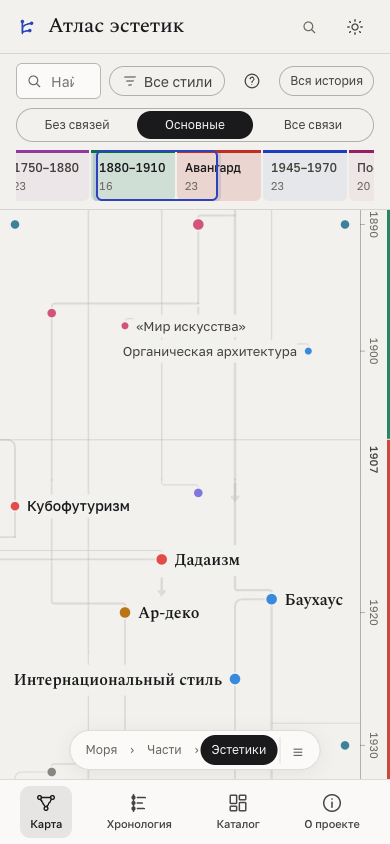
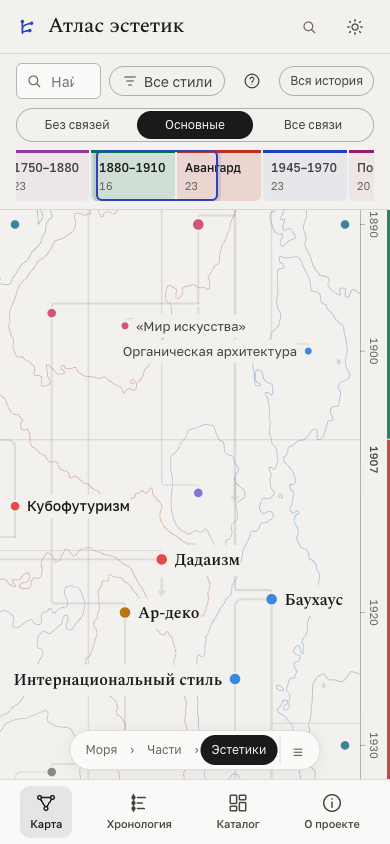
Keep orientation coasts and clarify sea relationship routes

diff --git a/js/views/map.js b/js/views/map.js
@@ -14,11 +14,12 @@ import { replaceParams, pushParams } from '../router.js?v=map4';
 import { pushStep, toParam, parseTrail } from '../trail.js?v=map4';
 import { stepTarget } from '../graphnav.js?v=chain-author-map4';
 import { createGutterLens } from '../lens.js?v=map4';
-import { initNebulae, drawNebulae, drawNebulaNames, disposeNebulae, setNebulaDirtyHandler, nebulaRegion, nebulaRegionAt } from '../nebulae.js?v=semantic-zoom-1';
+import { initNebulae, drawNebulae, drawNebulaNames, disposeNebulae, setNebulaDirtyHandler, nebulaRegion, nebulaRegionAt, nebulaShore } from '../nebulae.js?v=semantic-zoom-2';
 import { buildIndex, search } from '../search.js?v=author-pilot';
 import { fitLabelText } from '../map-labels.js?v=focus-fit-1';
 import { LINK_MODES, readLinkSettings, historicalLinkVisible } from '../map-links.js?v=link-modes-1';
-import { mapDetail, aggregateMapLinks } from '../map-detail.js?v=semantic-zoom-1';
+import { mapDetail, aggregateMapLinks } from '../map-detail.js?v=semantic-zoom-2';
+import { summaryCurve } from '../map-summary.js?v=semantic-zoom-2';
 
 const NS = 'http://www.w3.org/2000/svg';
 const AXIS_H = 30;      // строка делений шкалы внутри SVG
@@ -115,7 +116,7 @@ export default {
             <div class="lg-layers" role="group" aria-label="Слои карты">
               <label class="map-switch"><input type="checkbox" data-layer="verified"><span class="sw" aria-hidden="true"></span>Только подтверждённые связи</label>
             </div>
-            <p class="lg-note">На дальнем плане читаются моря: отдельные точки и ветви скрыты, пунктир объединяет связи карточек из разных морей. Нажмите на него, чтобы увидеть конкретные связи, типы и источники. При приближении появляются части, затем эстетики; береговые контуры уходят до крупного плана. Нажмите на море или его название, чтобы приблизить область. В списке доступны все моря и карточки вне них. Соседство и расстояния не означают географическую или культурную близость; состав групп не доказывает происхождение. «Основные» показывает ветви по первым указанным предкам, «Все связи» добавляет остальные связи, контекст и визуальные сопоставления; на дальнем плане показывается только несколько сводных линий. «Без связей» отключает также сводки и маршрут. Авторские карточки доступны на тех же уровнях, что и остальные. Большинство исторических связей пока остаются редакционными гипотезами. Фильтр «Только подтверждённые» независим от режима линий. Время идёт слева направо, на узком экране — сверху вниз; текст остаётся горизонтальным. Шкала времени неравномерная: каждой эпохе отведено место по числу стилей. Перетаскивание двигает карту; Ctrl/⌘ с колёсиком или щипок меняет масштаб.</p>
+            <p class="lg-note">На дальнем плане читаются моря: отдельные точки и ветви скрыты, пунктир объединяет связи карточек из разных морей. Нажмите на него, чтобы увидеть конкретные связи, типы и источники. При приближении появляются части, затем эстетики; тонкий внешний берег моря остаётся ориентиром даже на крупном плане. Нажмите на море или его название, чтобы приблизить область. В списке доступны все моря и карточки вне них. Соседство и расстояния не означают географическую или культурную близость; состав групп не доказывает происхождение. «Основные» показывает ветви по первым указанным предкам, «Все связи» добавляет остальные связи, контекст и визуальные сопоставления; на дальнем плане показывается только несколько сводных линий. Наведение выделяет связи моря, сохраняя основные маршруты на месте. «Без связей» отключает также сводки и маршрут. Авторские карточки доступны на тех же уровнях, что и остальные. Большинство исторических связей пока остаются редакционными гипотезами. Фильтр «Только подтверждённые» независим от режима линий. Время идёт слева направо, на узком экране — сверху вниз; текст остаётся горизонтальным. Шкала времени неравномерная: каждой эпохе отведено место по числу стилей. Перетаскивание двигает карту; Ctrl/⌘ с колёсиком или щипок меняет масштаб.</p>
           </div>
         </div>
         <div class="zoom-ctrls">
@@ -684,14 +685,22 @@ export default {
       const seaKeys = new Map(store.nebulae.map((s, i) => [s.id, `neb:${i}`]));
       const groups = aggregateMapLinks(records, (id) => seaKeys.get(nodeById.get(id).s.nebula), { mode: linkMode, verifiedOnly });
       const named = groups.filter((g) => regionNames.has(g.a) && regionNames.has(g.b));
-      aggregateLinks = (regionHover ? named.filter((g) => g.a === regionHover || g.b === regionHover) : named.filter((g) => verifiedOnly || g.records.length >= 2)).slice(0, linkMode === 'all' ? 10 : 6);
+      const baseline = named.filter((g) => verifiedOnly || g.records.length >= 2).slice(0, linkMode === 'all' ? 10 : 6);
+      const incident = (g) => g.a === regionHover || g.b === regionHover;
+      // Базовые маршруты сохраняются при наведении, чтобы карта не менялась под указателем.
+      aggregateLinks = [...baseline, ...(regionHover ? named.filter((g) => incident(g) && !baseline.includes(g)).slice(0, 4) : [])];
+      const boxes = [...summaryMask.querySelectorAll('rect[fill="black"]')].map((r) => [+r.getAttribute('x'), +r.getAttribute('y'), +r.getAttribute('x') + +r.getAttribute('width'), +r.getAttribute('y') + +r.getAttribute('height')]);
+      const shores = new Map();
+      const shore = (key) => { if (!shores.has(key)) shores.set(key, nebulaShore(key, nameCam().toScreen)); return shores.get(key); };
       for (const [i, g] of aggregateLinks.entries()) {
         const a = regionNames.get(g.a), b = regionNames.get(g.b);
-        const dx = b.x - a.x, dy = b.y - a.y, len = Math.hypot(dx, dy), bend = Math.min(70, len * 0.18);
-        if (len < 30) continue;
-        const cx = (a.x + b.x) / 2 - dy / len * bend, cy = (a.y + b.y) / 2 + dx / len * bend;
-        const d = `M${a.x.toFixed(1)},${a.y.toFixed(1)}Q${cx.toFixed(1)},${cy.toFixed(1)} ${b.x.toFixed(1)},${b.y.toFixed(1)}`;
-        el('path', { class: 'summary-line', d, 'stroke-width': Math.min(2.6, 0.65 + Math.log2(g.records.length + 1) * 0.35), opacity: detail.aggregates * (regionHover ? 0.62 : 0.24) }, G.summary);
+        const route = summaryCurve({ ...a, ports: shore(g.a) }, { ...b, ports: shore(g.b) }, boxes, [6, rot ? 6 : AXIS_H + 6, pw - (rot ? AXIS_H + 6 : 6), ph - 6]);
+        if (!route) continue;
+        const { d } = route;
+        const width = Math.min(2.6, 0.85 + Math.log2(g.records.length + 1) * 0.4);
+        el('path', { class: 'summary-case', d, 'stroke-width': width + 2.4, opacity: detail.aggregates * 0.85 }, G.summary);
+        el('path', { class: 'summary-line', d, 'stroke-width': width, opacity: detail.aggregates * (regionHover ? incident(g) ? 0.82 : 0.34 : 0.5) }, G.summary);
+        for (const p of route.ports) el('circle', { class: 'summary-port', cx: p.x, cy: p.y, r: 2.4, opacity: detail.aggregates * (regionHover && incident(g) ? 0.9 : 0.65) }, G.summary);
         const count = `${g.records.length} ${plural(g.records.length, 'связь карточек', 'связи карточек', 'связей карточек')}`;
         const h = el('path', { class: 'summary-hit', d, 'data-summary': i, 'data-key': `${g.a}/${g.b}`, role: 'button', tabindex: 0, 'aria-label': `${a.name} и ${b.name}: ${count}. Открыть список` }, G['summary-hits']);
         el('title', {}, h).textContent = `${count} · ${a.name} / ${b.name}`;

diff --git a/js/nebulae.js b/js/nebulae.js
@@ -228,11 +228,13 @@
   // изолинии поля региона → Path2D в координатах карты
   function toPath(reg, V, lev, smooth, eps, minLen, stat) {
     const loops = contours(V, reg.bw, reg.bh, lev), path = new Path2D();
+    if (lev === 0) reg.shore = [];
     let pts = 0;
     for (let lp of loops) {
       for (let i = 0; i < lp.length; i += 2) { lp[i] = OX + (reg.bx0 + lp[i]) * CS; lp[i + 1] = OY + (reg.by0 + lp[i + 1]) * CS; }
       if (perim(lp) < minLen) continue;
       lp = rdp(chaikin(lp, smooth), eps);
+      if (lev === 0) reg.shore.push(lp);
       path.moveTo(lp[0], lp[1]); for (let i = 2; i < lp.length; i += 2) path.lineTo(lp[i], lp[i + 1]); path.closePath();
       pts += lp.length / 2;
     }
@@ -521,7 +523,33 @@ function renderLayer(cam) {
   });
 }
 function draw(ctx, cam) {
-  if (!washFar || cam.detail?.regions === 0) return;
+  if (!washFar) return;
+  const mix = cam.detail?.partMix ?? sstep(0.62, 0.95, cam.kx), alpha = cam.detail?.regions ?? 1;
+  if (alpha > 0) drawWash(ctx, cam, mix, alpha);
+  else { clearTimeout(timer); lastCam = null; }
+  // Только внешний берег: без растянутой заливки и линий глубины. Прозрачность
+  // не падает с дальнейшим приближением, толщина остаётся экранной.
+  const coast = cam.detail?.coast ?? 0;
+  if (coast > 0) {
+    const { kx, ky, ox, oy, dpr } = cam;
+    const x0 = -ox / kx, x1 = (cam.w - ox) / kx, y0 = (cam.axis - oy) / ky, y1 = (cam.h - oy) / ky;
+    ctx.save();
+    ctx.setTransform(dpr, 0, 0, dpr, dpr * ox, dpr * oy);
+    ctx.globalAlpha = coast * (P.dark ? 0.42 : 0.36);
+    ctx.lineWidth = 0.85; ctx.lineJoin = 'round';
+    const key = `${kx.toFixed(4)}|${ky.toFixed(4)}`;
+    for (const r of nebRegs) {
+      const b = r.box; if (b[2] < x0 || b[0] > x1 || b[3] < y0 || b[1] > y1) continue;
+      if (r.coast?.key !== key) {
+        const path = new Path2D(); path.addPath(r.paths[0], new DOMMatrix([kx, 0, 0, ky, 0, 0]));
+        r.coast = { key, path };
+      }
+      ctx.strokeStyle = r.line; ctx.stroke(r.coast.path);
+    }
+    ctx.restore();
+  }
+}
+function drawWash(ctx, cam, mix, alpha) {
   lastCam = cam;
   // При отдалении/перемещении в кадр входят новые территории. Старый
   // битмап их не содержит: нельзя оставлять там пустоту до остановки камеры.
@@ -532,7 +560,6 @@ function draw(ctx, cam) {
   }
   if (!cache) return;
   const r = blitRect(cache, cam);
-  const mix = cam.detail?.partMix ?? sstep(0.62, 0.95, cam.kx), alpha = cam.detail?.regions ?? 1;
   ctx.save();
   cache.canvases.forEach((cv, i) => {
     ctx.globalAlpha = alpha * (i === 0 ? 1 - mix : mix);
@@ -732,6 +759,21 @@ export function nebulaRegion(key) {
   const [kind, id] = key.split(':');
   const r = (kind === 'neb' ? nebRegs : partRegs).find((r) => r.id === Number(id));
   return r && { key, kind, name: r.name, members: r.members.slice(), box: r.box.slice() };
+}
+
+// Порты обзорных связей лежат на настоящем береге, не на рамке названия.
+export function nebulaShore(key, toScreen) {
+  const [kind, id] = key.split(':');
+  const r = (kind === 'neb' ? nebRegs : partRegs).find((r) => r.id === Number(id));
+  const out = [];
+  for (const loop of r?.shore ?? []) {
+    let prev = null;
+    for (let i = 0; i < loop.length; i += 2) {
+      const [x, y] = toScreen(loop[i], loop[i + 1]);
+      if (!prev || Math.hypot(x - prev.x, y - prev.y) >= 12) { prev = { x, y }; out.push(prev); }
+    }
+  }
+  return out;
 }
 
 // Попадание в область проверяется по маске, а не её широкому прямоугольнику.

diff --git a/js/map-summary.js b/js/map-summary.js
@@ -1,0 +1,53 @@
+// Обзорная дуга должна читаться между названиями, а не целиком исчезать под
+// масками. Подбираем береговые порты и изгиб в экранных координатах.
+export function summaryCurve(a, b, boxes, bounds) {
+  if (a.ports && b.ports) {
+    const blocked = (p) => boxes.some((r) => p.x >= r[0] - 3 && p.x <= r[2] + 3 && p.y >= r[1] - 3 && p.y <= r[3] + 3);
+    const ports = (r, other) => {
+      const sorted = r.ports.filter((p) => !blocked(p) && p.x >= bounds[0] && p.x <= bounds[2] && p.y >= bounds[1] && p.y <= bounds[3])
+        .sort((p, q) => (Math.hypot(p.x - other.x, p.y - other.y) + Math.hypot(p.x - r.x, p.y - r.y) * 0.6)
+          - (Math.hypot(q.x - other.x, q.y - other.y) + Math.hypot(q.x - r.x, q.y - r.y) * 0.6));
+      const chosen = [];
+      for (const p of sorted) { if (chosen.every((q) => Math.hypot(p.x - q.x, p.y - q.y) >= 20)) chosen.push(p); if (chosen.length === 8) break; }
+      return chosen;
+    };
+    const ap = ports(a, b), bp = ports(b, a);
+    const pairs = ap.flatMap((p) => bp.map((q) => ({ p, q, cost: Math.hypot(p.x - q.x, p.y - q.y) + (Math.hypot(p.x - a.x, p.y - a.y) + Math.hypot(q.x - b.x, q.y - b.y)) * 0.25 })))
+      .filter(({ p, q }) => Math.hypot(p.x - q.x, p.y - q.y) >= 40).sort((p, q) => p.cost - q.cost).slice(0, 8);
+    let best = null;
+    for (const { p, q, cost } of pairs) {
+      if (best && Math.hypot(p.x - q.x, p.y - q.y) + cost >= best.score + best.portCost) continue;
+      const curve = summaryCurve(p, q, boxes, bounds);
+      if (curve && (!best || curve.score + cost < best.score + best.portCost)) best = { ...curve, portCost: cost, ports: [p, q] };
+    }
+    return best;
+  }
+  const dx = b.x - a.x, dy = b.y - a.y, len = Math.hypot(dx, dy);
+  if (len < 30) return null;
+  const samples = Math.max(48, Math.ceil(len / 5));
+  const masked = (p) => boxes.some((r) => p.x >= r[0] && p.x <= r[2] && p.y >= r[1] && p.y <= r[3]);
+  const inside = (p) => p.x >= bounds[0] && p.x <= bounds[2] && p.y >= bounds[1] && p.y <= bounds[3];
+  let best = null;
+  for (const bend of [...new Set([Math.min(70, len * 0.18), 80, 140, 220, 320])]) for (const sign of [1, -1]) {
+    const c = { x: (a.x + b.x) / 2 - dy / len * bend * sign, y: (a.y + b.y) / 2 + dx / len * bend * sign };
+    let length = 0, visible = 0, longest = 0, run = 0, gaps = 0, valid = true, prev = a, wasVisible = false;
+    for (let i = 1; i <= samples; i++) {
+      const t = i / samples, u = 1 - t;
+      const p = { x: u * u * a.x + 2 * u * t * c.x + t * t * b.x, y: u * u * a.y + 2 * u * t * c.y + t * t * b.y };
+      if (!inside(p)) { valid = false; break; }
+      const ds = Math.hypot(p.x - prev.x, p.y - prev.y);
+      length += ds;
+      if (!masked(p)) { visible += ds; run += ds; longest = Math.max(longest, run); wasVisible = true; }
+      else { if (wasVisible) gaps++; run = 0; wasVisible = false; }
+      prev = p;
+    }
+    if (!valid || visible < 36 || longest < 28 || visible / length < 0.3) continue;
+    const score = length + (length - visible) * 2 + gaps * 45;
+    if (!best || score < best.score) best = { score, length, visible, longest,
+      d: `M${a.x.toFixed(1)},${a.y.toFixed(1)}Q${c.x.toFixed(1)},${c.y.toFixed(1)} ${b.x.toFixed(1)},${b.y.toFixed(1)}` };
+    // Первый изгиб — самый короткий. Если он целиком открыт, более длинные
+    // варианты не улучшат ни длину, ни видимость.
+    if (bend === Math.min(70, len * 0.18) && visible === length) return best;
+  }
+  return best;
+}

diff --git a/scripts/dev/map-geometry.js b/scripts/dev/map-geometry.js
@@ -5,7 +5,7 @@
 // Сравнимая проверка для старой и новой карты: все подписи стилей и все видимые линии связей,
 // без исключения подписей концов связи (в старой разметке концы неизвестны).
 const vis = (el) => { for (let e = el; e && e.tagName !== 'svg'; e = e.parentElement) { const cs = getComputedStyle(e); if (e.matches('text') && +cs.fillOpacity < 0.15) return false; if (cs.display === 'none' || +cs.opacity < 0.15) return false; } return true; };
-const edgePaths = [...document.querySelectorAll('.map-svg .m-edges path:not(.case), .map-svg .m-cmp path, .map-svg .m-contexts path, .map-svg .m-summary path, .map-svg .m-life path, .map-svg .m-trail path')];
+const edgePaths = [...document.querySelectorAll('.map-svg .m-edges path:not(.case), .map-svg .m-cmp path, .map-svg .m-contexts path, .map-svg .m-summary path:not(.summary-case), .map-svg .m-life path, .map-svg .m-trail path')];
 const maskBoxes = new Map(edgePaths.map((p) => {
   const g = p.closest('[mask]'); if (!g) return [p, []];
   const id = g.getAttribute('mask').match(/#([^)]*)/)?.[1], mask = id && document.getElementById(id);

diff --git a/css/map.css b/css/map.css
@@ -387,7 +387,9 @@ body[data-view="map"] .site-footer { display: none; }
 .m-nebnames .region-name { pointer-events: visiblePainted; cursor: pointer; outline: none; }
 .region-name:hover, .region-name:focus-visible { filter: brightness(0.75); text-decoration: underline; text-underline-offset: 4px; }
 [data-theme="dark"] .region-name:hover, [data-theme="dark"] .region-name:focus-visible { filter: brightness(1.25); }
-.summary-line { fill: none; stroke: var(--ink-2); stroke-dasharray: 3 5; stroke-linecap: round; pointer-events: none; }
+.summary-case { fill: none; stroke: var(--paper); stroke-linecap: round; pointer-events: none; }
+.summary-line { fill: none; stroke: var(--ink-2); stroke-dasharray: 5 6; stroke-linecap: round; pointer-events: none; }
+.summary-port { fill: var(--paper); stroke: var(--ink-2); stroke-width: 1.1; pointer-events: none; }
 .summary-hit { fill: none; stroke: transparent; stroke-width: 16; pointer-events: stroke; cursor: pointer; outline: none; }
 .summary-hit:focus-visible { stroke: var(--accent); stroke-width: 2; stroke-dasharray: 3 5; }
 .summary-records { display: grid; gap: 4px; margin-top: 10px; }

diff --git a/js/map-detail.js b/js/map-detail.js
@@ -5,11 +5,12 @@ const smooth = (a, b, x) => {
 
 // Один ход масштаба для всех слоёв. Учитывает полную историю на широком окне.
 export function mapDetail(k, fit, overview, regions = true) {
-  if (!regions) return { level: 'styles', regions: 0, partMix: 0, seaNames: 0, partNames: 0, nodes: 1, labels: 1, edges: 1, aggregates: 0 };
+  if (!regions) return { level: 'styles', regions: 0, coast: 0, partMix: 0, seaNames: 0, partNames: 0, nodes: 1, labels: 1, edges: 1, aggregates: 0 };
   const ratio = k / Math.max(overview, fit * 2.2);
   return {
     level: ratio < 0.74 ? 'seas' : ratio < 1.25 ? 'parts' : 'styles',
     regions: 1 - smooth(0.96, 1.28, ratio),
+    coast: smooth(0.96, 1.28, ratio),
     partMix: smooth(0.54, 0.9, ratio),
     seaNames: 1 - smooth(0.73, 0.79, ratio),
     partNames: smooth(0.73, 0.79, ratio) * (1 - smooth(1.02, 1.14, ratio)),

diff --git a/index.html b/index.html
@@ -22,7 +22,7 @@
   <link rel="stylesheet" href="css/tokens.css">
   <link rel="stylesheet" href="css/base.css?v=regional-review">
   <link rel="stylesheet" href="css/views.css?v=regional-review">
-  <link rel="stylesheet" href="css/map.css?v=semantic-zoom-1">
+  <link rel="stylesheet" href="css/map.css?v=semantic-zoom-2">
 </head>
 <body>
   <a class="skip-link" href="#app">К содержимому</a>
@@ -84,6 +84,6 @@
 
   <div class="toast" role="status" aria-live="polite"></div>
 
-  <script type="module" src="js/main.js?v=semantic-zoom-1"></script>
+  <script type="module" src="js/main.js?v=semantic-zoom-2"></script>
 </body>
 </html>

diff --git a/js/main.js b/js/main.js
@@ -32,7 +32,7 @@ async function route(base, { first = false } = {}) {
     current.instance.update({ ...base, ...r });
     return;
   }
-  const mod = await import(`./views/${r.view}.js?v=semantic-zoom-1`);
+  const mod = await import(`./views/${r.view}.js?v=semantic-zoom-2`);
   if (seq !== routeSeq) return;
   const swap = () => {
     current?.instance?.destroy?.();

diff --git a/docs/map-semantic-zoom-2026-10-15.md b/docs/map-semantic-zoom-2026-10-15.md
@@ -12,10 +12,10 @@
 | --- | --- | --- | --- |
 | Вся история — начальный вид | Моря | Силуэты, крупные названия, несколько сводных линий | Отдельные точки, миниатюры, подписи, ветви, стволы, миникарта |
 | Части | Внутренние области | Названия частей, облегчённая гравировка | Крупные названия морей и сводные линии; карточки ещё не конкурируют с частями |
-| Эстетики | Названия и точки карточек | Краткие подписи, затем даты и миниатюры; появляется миникарта | Названия областей, затем полностью их заливка и береговые линии |
-| Связи и фокус | Конкретная карточка и её отношения | Основные или все видимые связи, объяснения по нажатию, ближайшие связи и маршрут | Фоновая география и точки в сжатых боковых желобах |
+| Эстетики | Названия и точки карточек | Краткие подписи, затем даты и миниатюры; появляется миникарта; тонкий внешний берег моря сохраняет ориентацию | Названия областей, их заливка и внутренняя гравировка |
+| Связи и фокус | Конкретная карточка и её отношения | Основные или все видимые связи, объяснения по нажатию, ближайшие связи и маршрут | Заливка, гравировка и точки в сжатых боковых желобах |
 
-Контуры полностью исчезают до сильного растяжения. Их геометрия не «плавает» независимо от узлов: принадлежность к морям и частям сохраняется. У выбранного стиля и его связей остаётся приоритет при отдалении; режим «Без связей» не включает линии обратно из-за выбора. Верхний предел приближения сокращён с 5 до 2: за ним увеличивались только пустые промежутки между датами.
+Заливка и внутренняя гравировка исчезают до сильного растяжения. Внешний берег большого моря остаётся тонкой цветной линией даже на максимальном зуме: толщина 0,85 экранного пикселя, непрозрачность 36% в светлой теме и 42% в тёмной. Он плавно подхватывает ориентирование по мере исчезновения заливки и больше не выцветает при дальнейшем приближении. Геометрия сохраняет привязку к узлам и принадлежность к морям и частям. У выбранного стиля и его связей остаётся приоритет при отдалении; режим «Без связей» не включает линии обратно из-за выбора. Верхний предел приближения сокращён с 5 до 2: за ним увеличивались только пустые промежутки между датами.
 
 ### Общий вид
 
@@ -27,13 +27,17 @@
 
 ### Карточки
 
-![Чтение эстетик после исчезновения берегов](map-semantic-zoom/shots/styles-light.png)
+![Эстетики с тонкими берегами для ориентации](map-semantic-zoom/shots/styles-light.png)
+
+### Максимальное приближение
+
+![Тонкий берег сохраняется на максимальном зуме](map-semantic-zoom/shots/coast-maximum-light.png)
 
 ## Навигация и сводные связи
 
 Нижняя панель «Моря → Части → Эстетики» показывает текущий уровень и позволяет перейти к нему без точного попадания в масштаб. Клик по области или её названию приближает область; по части — карточки. Доступны клавиатурное управление и список всех морей, включая 11 карточек вне них. Невидимые точки не получают фокус и не перехватывают нажатия.
 
-Дальний план показывает до шести наиболее наполненных сводок в режиме «Основные» или до десяти в режиме «Все связи». При наведении на море остаются относящиеся к нему сводки. Каждая линия объединяет **реальные отношения карточек**, а не объявляет влияние одного моря на другое. Нажатие открывает полный список объединённых отношений; далее доступно прежнее объяснение конкретной связи и её источники. Направления, типы и статусы сохраняются. Внутренние отношения одного моря и карточки без моря не создают ложных межморских линий.
+Дальний план показывает до шести наиболее наполненных сводок в режиме «Основные» или до десяти в режиме «Все связи». Сводки видны без наведения: пунктир заметнее, бумажная обводка отделяет его от гравировки. Концы отмечены маленькими кольцами на настоящем внешнем берегу каждого моря. Изгиб выбирается так, чтобы между масками подписей оставался читаемый участок; если места нет, не создаётся и невидимая область нажатия. При наведении базовые маршруты остаются на месте, связи моря выделяются и могут добавиться до четырёх дополнительных сводок. Каждая линия объединяет **реальные отношения карточек**, а не объявляет влияние одного моря на другое. Нажатие открывает полный список объединённых отношений; далее доступно прежнее объяснение конкретной связи и её источники. Направления, типы и статусы сохраняются в раскрываемых записях. У обзорного пунктира нет общей стрелки: в одной сводке могут сочетаться встречные влияния, контекст и сходство, а хронологическое соседство не доказывает происхождение моря. Внутренние отношения одного моря и карточки без моря не создают ложных межморских линий.
 
 Сводки и выделенные конкретные связи проходят под масками названий областей, включая случай отдаления с выбранной карточкой. Попадание по названию имеет приоритет над линией под ним. «Без связей» отключает и сводки, и ветви, и маршрут; фильтр подтверждения действует также на сводки. При включённой проверке одиночные подтверждённые отношения не отбрасываются из-за малого числа связей в группе. Сопоставления не превращаются в подтверждённое историческое влияние.
 
@@ -49,14 +53,15 @@
 
 ## Реализация и проверка
 
-`js/map-detail.js` задаёт совместные прозрачности слоёв и собирает сводки исходных отношений. Масштаб перехода учитывает размер окна и вписанную полную историю. Два кэша canvas хранят море и части отдельно: смешивание и затухание происходят на каждом кадре, без ожидания перерисовки битмапа. Контуры облегчены: четыре уровня гравировки вместо семи и без дополнительных точек глубины. Алгоритм масок и раскладка узлов сохранены.
+`js/map-detail.js` задаёт совместные прозрачности слоёв и собирает сводки исходных отношений; `js/map-summary.js` подбирает береговые порты и читаемые дуги. Масштаб перехода учитывает размер окна и вписанную полную историю. Два кэша canvas хранят море и части отдельно: смешивание и затухание происходят на каждом кадре, без ожидания перерисовки битмапа. Контуры облегчены: четыре уровня гравировки вместо семи и без дополнительных точек глубины. Остаточный берег рисуется отдельно в экранной толщине, без пересоздания растровой заливки вблизи. Алгоритм масок и раскладка узлов сохранены.
 
-- **130/130 тестов**, включая отсутствие точек и ветвей на полном обзоре, самостоятельный уровень частей, исчезновение контуров перед чтением карточек, непрерывность переходов, исходные направления и статусы сводок, три режима линий и фильтр подтверждения.
+- **134/134 теста**, включая отсутствие точек и ветвей на полном обзоре, самостоятельный уровень частей, сохранение тонкого берега при исчезновении заливки, непрерывность переходов, исходные направления и статусы сводок, три режима линий и фильтр подтверждения, читаемость дуг и привязку их концов к берегам.
 - **264 состояния Chromium**: 390×844, 768×1024, 1440×1000, 1920×1080; обе темы; 11 масштабов, включая границы переходов; три режима линий. Во всех проверенных состояниях нет наложений подписей друг на друга, названий областей на подписи или друг на друга, видимых ветвей поверх текста, горизонтального переполнения и ошибок JavaScript.
-- Координаты и текст названий областей совпадают между тремя режимами линий. Переключение режима не перестраивает моря; все 195 участников сохраняются. На полном обзоре ноль отдельных точек, миниатюр и подписей; в режиме без связей ноль видимых линий и сводок.
+- Дополнительные **32 кадра**: 390 и 1440 px, обе темы, DPR 1 и 2, четыре близких масштаба вплоть до максимума. Проверены ненулевые пиксели внешнего берега при нулевой заливке, отсутствие возврата сплошного поля и сохранение берега при отключении связей. На общем виде у каждой нарисованной сводки проверены видимый участок и неизменность маршрута при наведении.
+- Координаты и текст названий областей совпадают между тремя режимами линий. Переключение режима не перестраивает моря; все 195 участников сохраняются. На полном обзоре ноль отдельных точек, миниатюр и подписей; в режиме без связей ноль видимых линий отношений и сводок.
 - Проверены клавиатурное открытие сводки и исходного отношения, список всех 25 морей и 11 свободных карточек, переход в новое море, фокус Типоти, запрет линий при выборе в режиме `none`. На телефоне матрицы текста сохраняют горизонтальное положение.
 - Дополнительные сценарии включают щипок, перетаскивание касанием, реальное попадание указателем в сводную линию, клавиатурный переход по названию, фильтр авторов без пересборки областей, смену темы, изменение ориентации и предел зума. Подробный журнал текущей машины — `/tmp/atlas-redesign-20261015/`.
 - Отдельно проверены 320, 759, 760, 761 и 1024 px в обеих темах: пять масштабов, фокус Типоти и переход через границу поворота. Миникарта и панель уровней не пересекаются, выбранная точка не попадает под карточку. Панель уровней скрыта во время фокуса, а при появлении миникарты на широком экране перемещается вправо.
 - Ещё 48 состояний: четыре выбранные карточки (импрессионизм, Хокусай, Типоти, концептуализм), три масштаба, две ширины и обе темы. В этих кадрах и основной матрице нет точек поверх названий областей или немаскированных линий через них. Консольный диагностический сценарий `scripts/dev/map-geometry.js` теперь считает также эти пересечения, контекстные и сводные линии.
 
-Снимки выше сохранены в репозитории. Проверка на узких экранах выполнена с эмуляцией Chromium, включая DPR 2 и касания, не на физических устройствах. Общий вид также просмотрен в браузере Codex; последующая попытка изменения его viewport завершилась потерей соединения, поэтому расширенная матрица проверок относится к отдельному Chromium. Проверены конкретные кадры и переходы: это не доказательство отсутствия любой возможной коллизии при произвольной камере.
+Снимки выше сохранены в репозитории. Проверка на узких экранах выполнена с эмуляцией Chromium, включая DPR 2 и касания, не на физических устройствах. Общий вид узкого экрана также просмотрен в браузере Codex; расширенная матрица выполнена в отдельном Chromium. Проверены конкретные кадры и переходы: это не доказательство отсутствия любой возможной коллизии при произвольной камере.

diff --git a/README.md b/README.md
@@ -7,7 +7,7 @@
 
 Следующая партия: [10 региональных и авторских карточек, корпуса, связи и моря](docs/regional-languages-batch-03.md). [Сверка оставшихся пробелов](docs/catalog-gaps-2026-10-15.md) отделяет подготовленные карточки от исследовательской очереди.
 
-- **Карта**: три уровня чтения — моря → части → эстетики. На дальнем плане видны области и их названия; отдельные точки, подписи, миниатюры и ветви скрыты. Несколько пунктирных линий объединяют реальные связи карточек из разных морей: нажатие раскрывает список с типами, статусами и источниками. При приближении появляются части, затем названия и точки эстетик, затем ветви. Контуры морей к рабочему масштабу исчезают полностью, не растягиваясь за текстом в горизонтальные полосы. Начальный вид охватывает всю историю; нижняя панель позволяет выбрать уровень и открыть список всех 25 морей и 11 карточек вне них. Нажатие на область приближает её.
+- **Карта**: три уровня чтения — моря → части → эстетики. На дальнем плане видны области и их названия; отдельные точки, подписи, миниатюры и ветви скрыты. Несколько постоянно видимых пунктирных линий соединяют берега морей и объединяют реальные связи их карточек: нажатие раскрывает список с типами, статусами и источниками. При приближении появляются части, затем названия и точки эстетик, затем ветви. Заливка и внутренняя гравировка к рабочему масштабу исчезают; тонкий внешний берег моря остаётся ориентиром вплоть до максимального приближения. Начальный вид охватывает всю историю; нижняя панель позволяет выбрать уровень и открыть список всех 25 морей и 11 карточек вне них. Нажатие на область приближает её.
 
   На уровне отдельных эстетик точка — дата начала, принятая в карточке (в том числе начало выбранного корпуса работ); цвет — море. Состав 25 морей и 74 частей задаёт `content/nebulae.yaml`. Соседство и расстояния между ними не выражают культурное родство или географию. На узких экранах время идёт сверху вниз, на широких — слева направо; названия остаются горизонтальными. Шкала неравномерная: эпоха получает место по числу карточек. Карта двигается перетаскиванием, колёсиком и миникартой; Ctrl/⌘ с колёсиком или щипок меняет масштаб.
 
